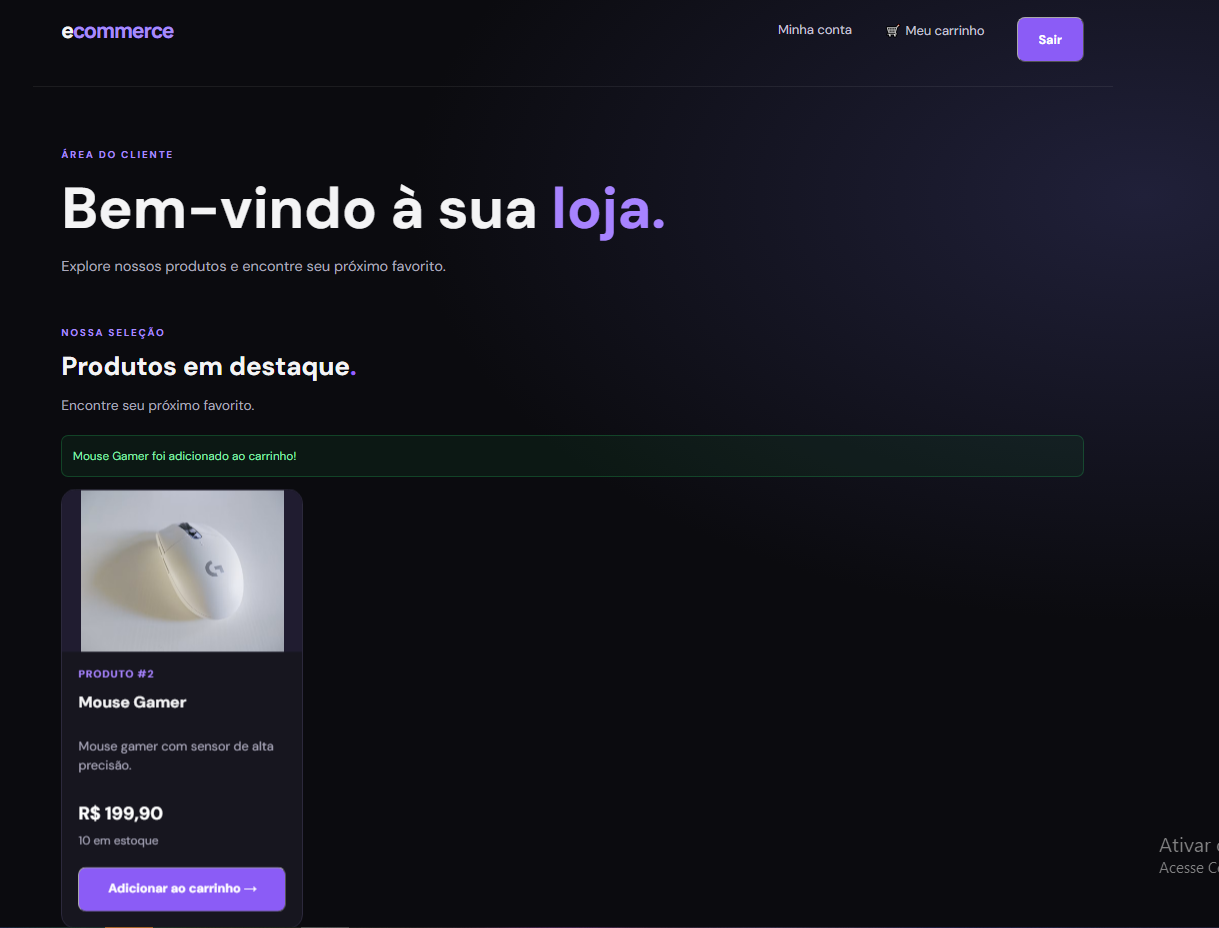
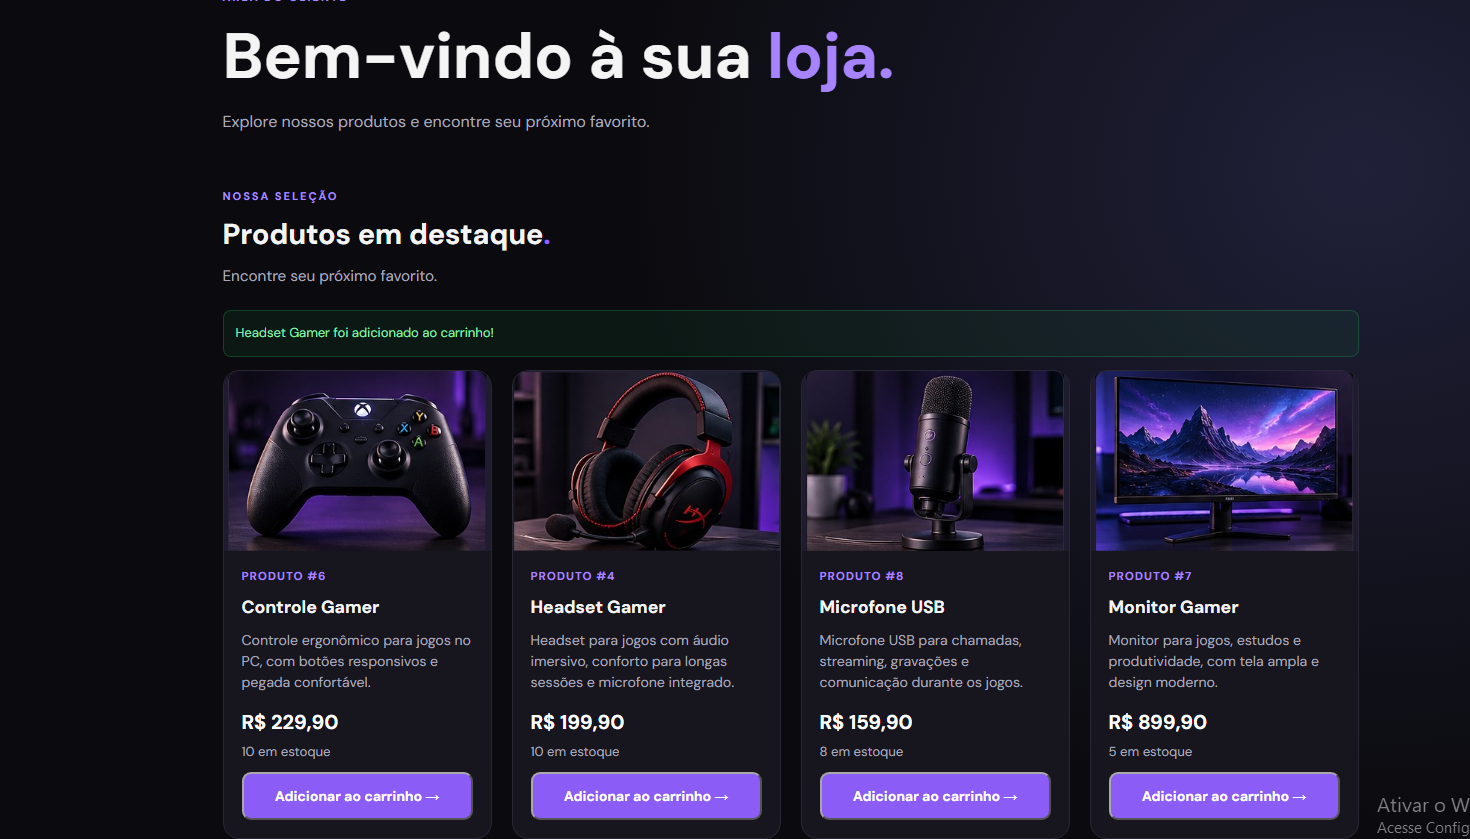
docs: update README screenshots and cart layout

diff --git a/frontend/src/App.css b/frontend/src/App.css
@@ -91,12 +91,12 @@ button {
 
 .hero {
   max-width: 1200px;
-  min-height: 530px;
+  min-height: 380px;
   margin: auto;
-  padding: 76px 32px;
+  padding: 40px 32px;
   display: grid;
   grid-template-columns: 1.1fr 0.9fr;
-  align-items: center;
+  align-items: start;
   gap: 48px;
 }
 
@@ -246,9 +246,14 @@ footer {
   }
 
   .hero {
-    grid-template-columns: 1fr;
-    gap: 18px;
-    padding: 55px 24px;
+    max-width: 1200px;
+    min-height: auto;
+    margin: 0 auto;
+    padding: 12px 32px 40px;
+    display: grid;
+    grid-template-columns: 1.1fr 0.9fr;
+    align-items: start;
+    gap: 48px;
   }
 
   .hero h1 {
@@ -681,11 +686,13 @@ footer {
   font-size: 0.9rem;
 }
 
+
 .store-home {
   width: min(1200px, 100%);
   margin: 0 auto;
-  padding: 64px 32px 80px;
+  padding: 24px 32px 80px;
 }
+
 
 .store-welcome {
   margin-bottom: 48px;
@@ -770,6 +777,42 @@ footer {
 .carrinho-vazio > p {
   color: #b8b6c9;
 }
+
+.carrinho-layout {
+  display: grid;
+  grid-template-columns: minmax(0, 1fr) 380px;
+  align-items: center;
+  gap: 24px;
+}
+
+
+.carrinho-resumo {
+  box-sizing: border-box;
+  width: 100%;
+  min-height: 380px;
+  margin: 0;
+  padding: 32px;
+  display: flex;
+  flex-direction: column;
+  position: sticky;
+  top: 24px;
+  border: 1px solid #302b3c;
+  border-radius: 16px;
+  background: #17151e;
+}
+
+
+
+@media (max-width: 800px) {
+  .carrinho-layout {
+    grid-template-columns: 1fr;
+  }
+
+  .carrinho-resumo {
+    position: static;
+  }
+}
+
 
 .carrinho-lista {
   display: flex;

diff --git a/frontend/src/components/Carrinho.jsx b/frontend/src/components/Carrinho.jsx
@@ -221,6 +221,7 @@ export default function Carrinho() {
         </div>
       ) : (
         <>
+        <div className="carrinho-layout">
           <div className="carrinho-lista">
             {itens.map((item) => (
               <article
@@ -362,6 +363,7 @@ export default function Carrinho() {
               ← Continuar comprando
             </Link>
           </aside>
+        </div>
         </>
       )}
 

diff --git a/README.md b/README.md
@@ -2,21 +2,21 @@
 
 A full-stack e-commerce application built with **FastAPI, React, PostgreSQL, and Stripe**. This project demonstrates REST API development, authentication, shopping cart management, payment processing, email notifications, database migrations, and automated testing.
 
-The application includes a responsive product catalog, product images, cart management, Stripe checkout, and payment confirmation workflows.
+The application includes a responsive product catalog, product images, cart management, Stripe Checkout, and payment confirmation workflows.
 
 ## Application Screenshots
-
-### Product Catalog
-
-Browse gaming products, view product details and prices, and add items to the shopping cart.
-
-![E-commerce product catalog](docs/images/catalog.png)
 
 ### Login
 
 User authentication interface.
 
 ![E-commerce login page](docs/images/login.png)
+
+### Product Catalog
+
+Browse gaming products, view product details and prices, and add items to the shopping cart.
+
+![E-commerce product catalog](docs/images/catalog.png)
 
 ### Shopping Cart
 
@@ -61,6 +61,7 @@ Payment success page after completing a test transaction.
 ## Tech Stack
 
 ### Backend
+
 - Python
 - FastAPI
 - SQLAlchemy
@@ -72,6 +73,7 @@ Payment success page after completing a test transaction.
 - Pytest
 
 ### Frontend
+
 - React
 - Vite
 - JavaScript
@@ -80,6 +82,7 @@ Payment success page after completing a test transaction.
 - Automated component tests
 
 ### Infrastructure and Integrations
+
 - Docker and Docker Compose
 - Stripe test mode
 - SMTP email integration
@@ -104,8 +107,8 @@ ecommerce-fullstack/
 │   └── vite.config.js
 └── docs/
     └── images/
-        ├── catalog.png
         ├── login.png
+        ├── catalog.png
         ├── cart.png
         ├── cart-feedback.png
         ├── stripe-checkout.png
@@ -217,7 +220,7 @@ From the `backend` directory, activate the virtual environment and run:
 python -m pytest tests -v
 ```
 
-The backend test suite has passed **40 tests** in the current verified test run.
+The backend test suite passed **40 tests** in the latest verified test run.
 
 Some integration tests require a dedicated test database. Configure the test environment according to the project settings and never run tests against a production database.
 
@@ -229,7 +232,7 @@ From the project root, run:
 npm --prefix ./frontend test
 ```
 
-The frontend test suite has passed **10 tests** in the current verified test run.
+The frontend test suite passed **10 tests** in the latest verified test run.
 
 ### Frontend Quality Checks
 
@@ -245,7 +248,7 @@ Build the frontend for production:
 npm --prefix ./frontend run build
 ```
 
-Both checks passed in the current verified run.
+Both checks passed in the latest verified run.
 
 ## Security Considerations
 
